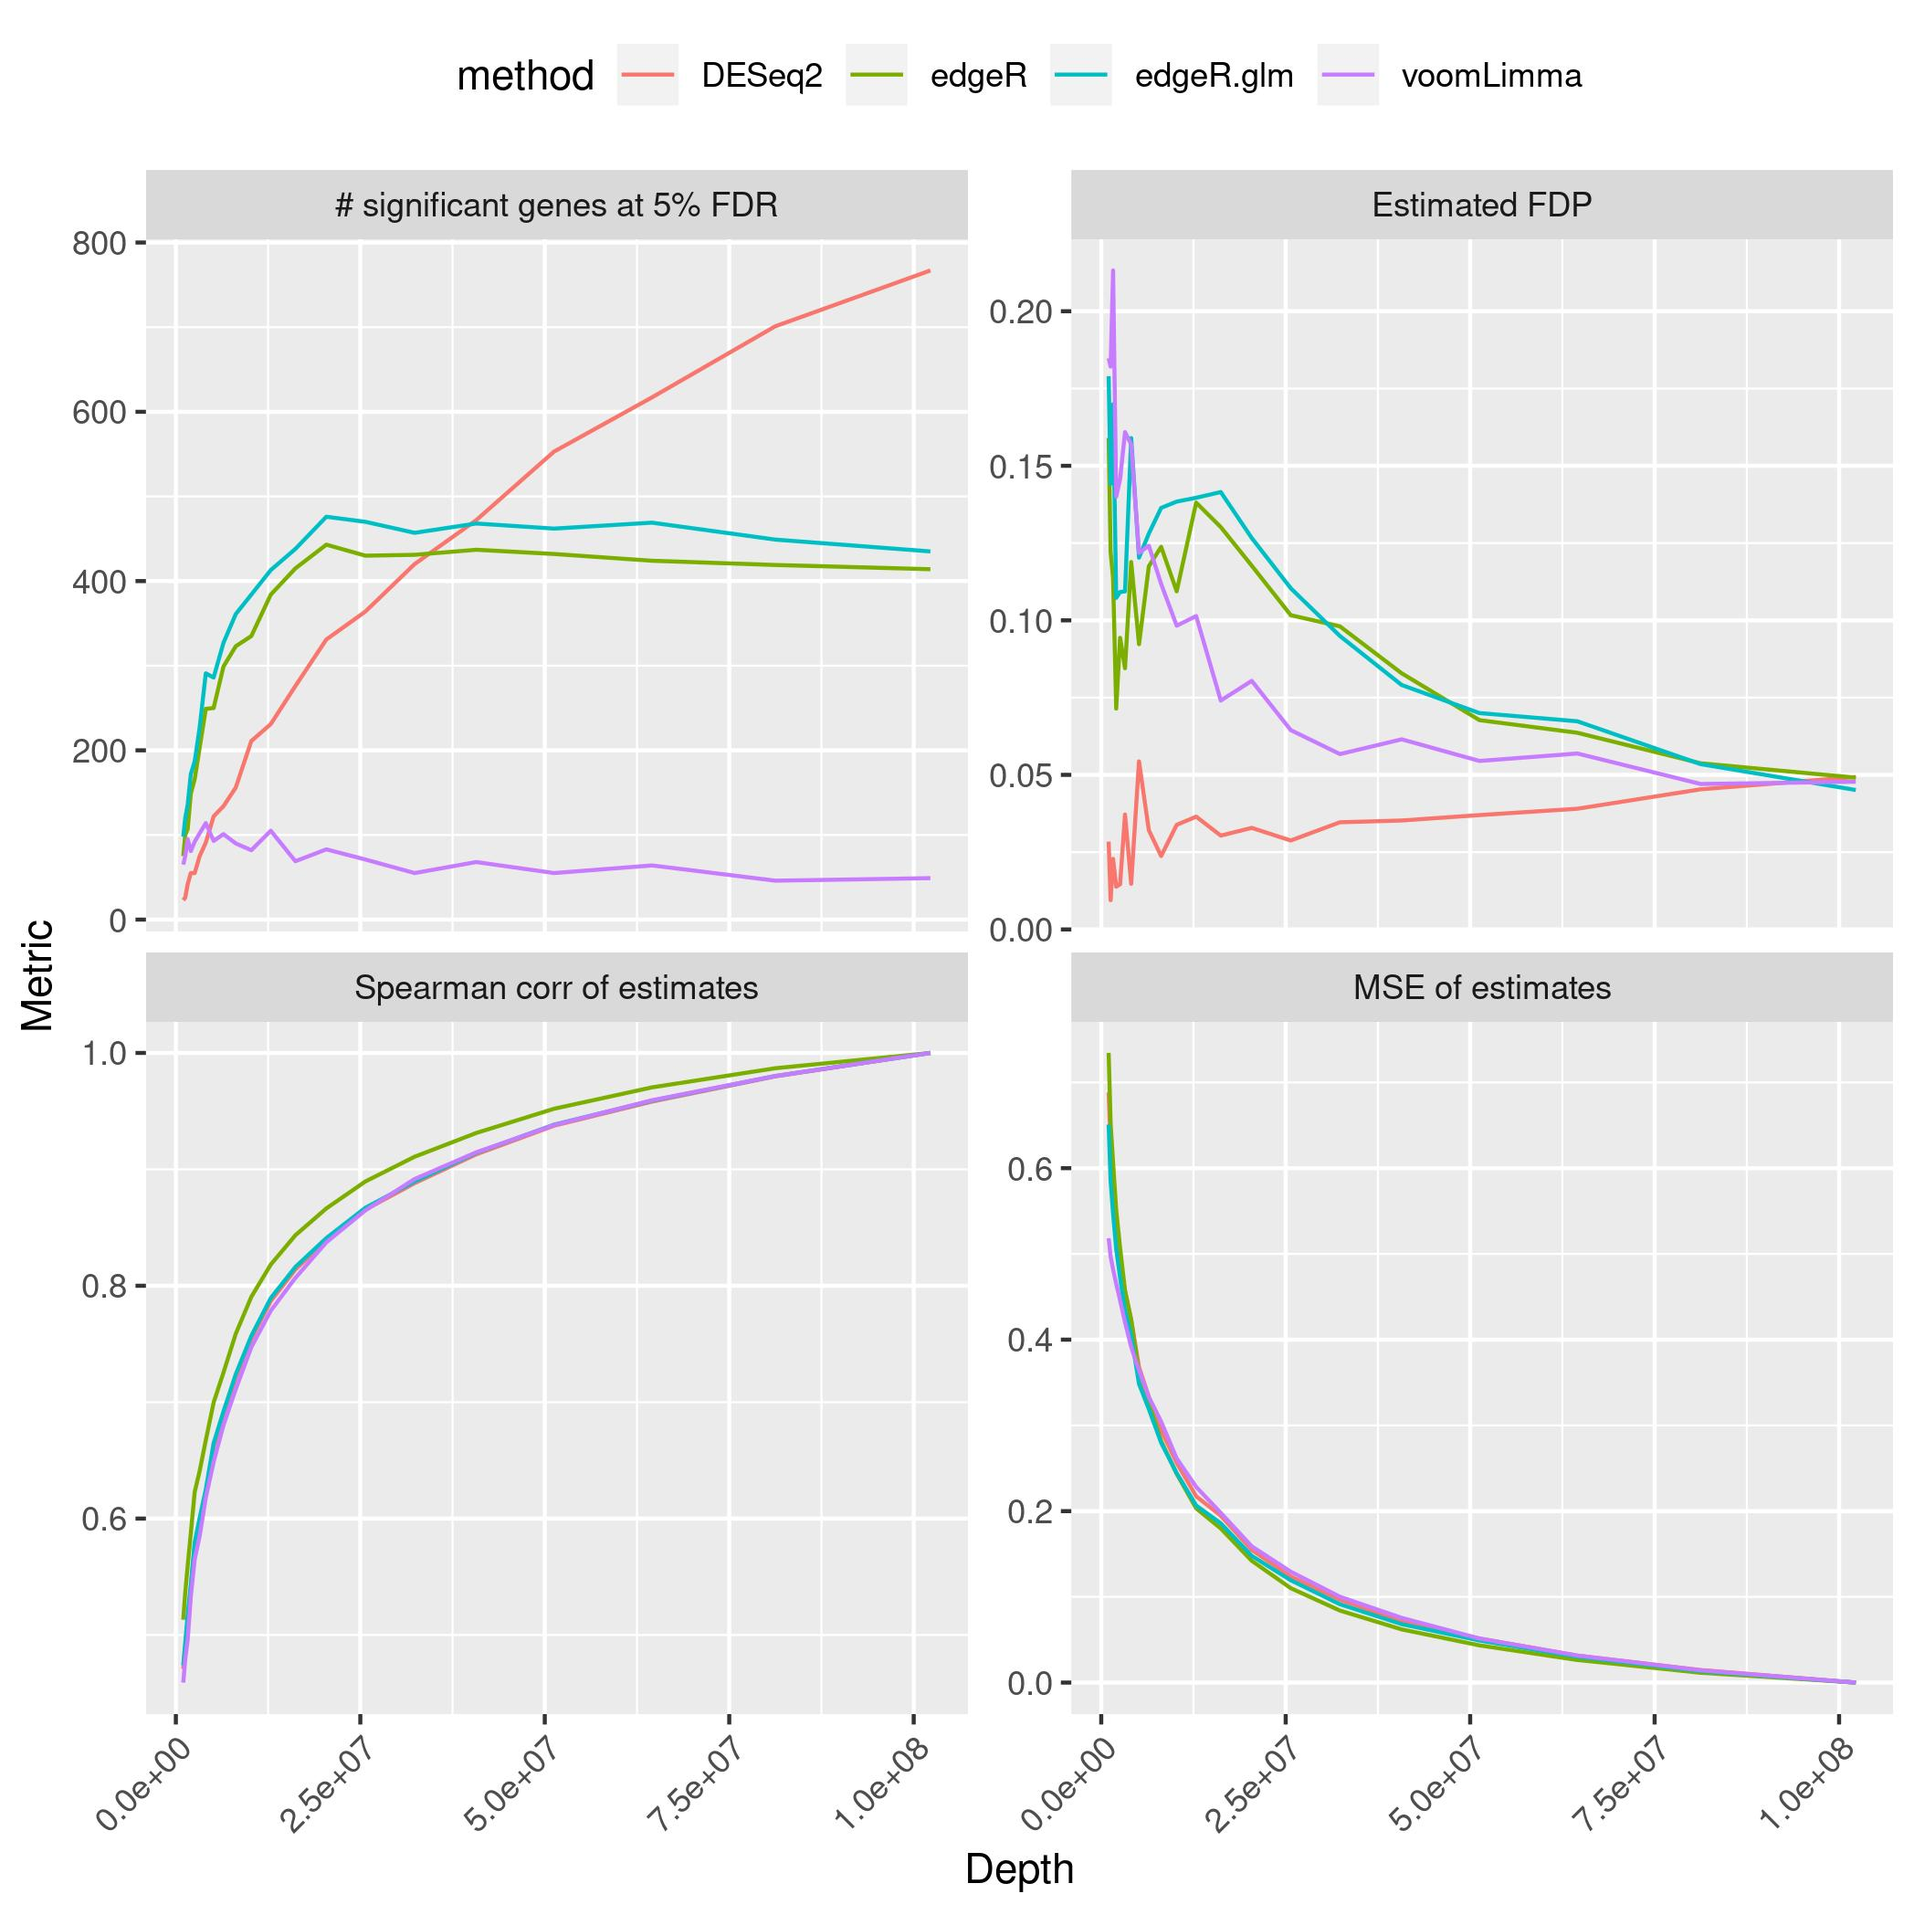
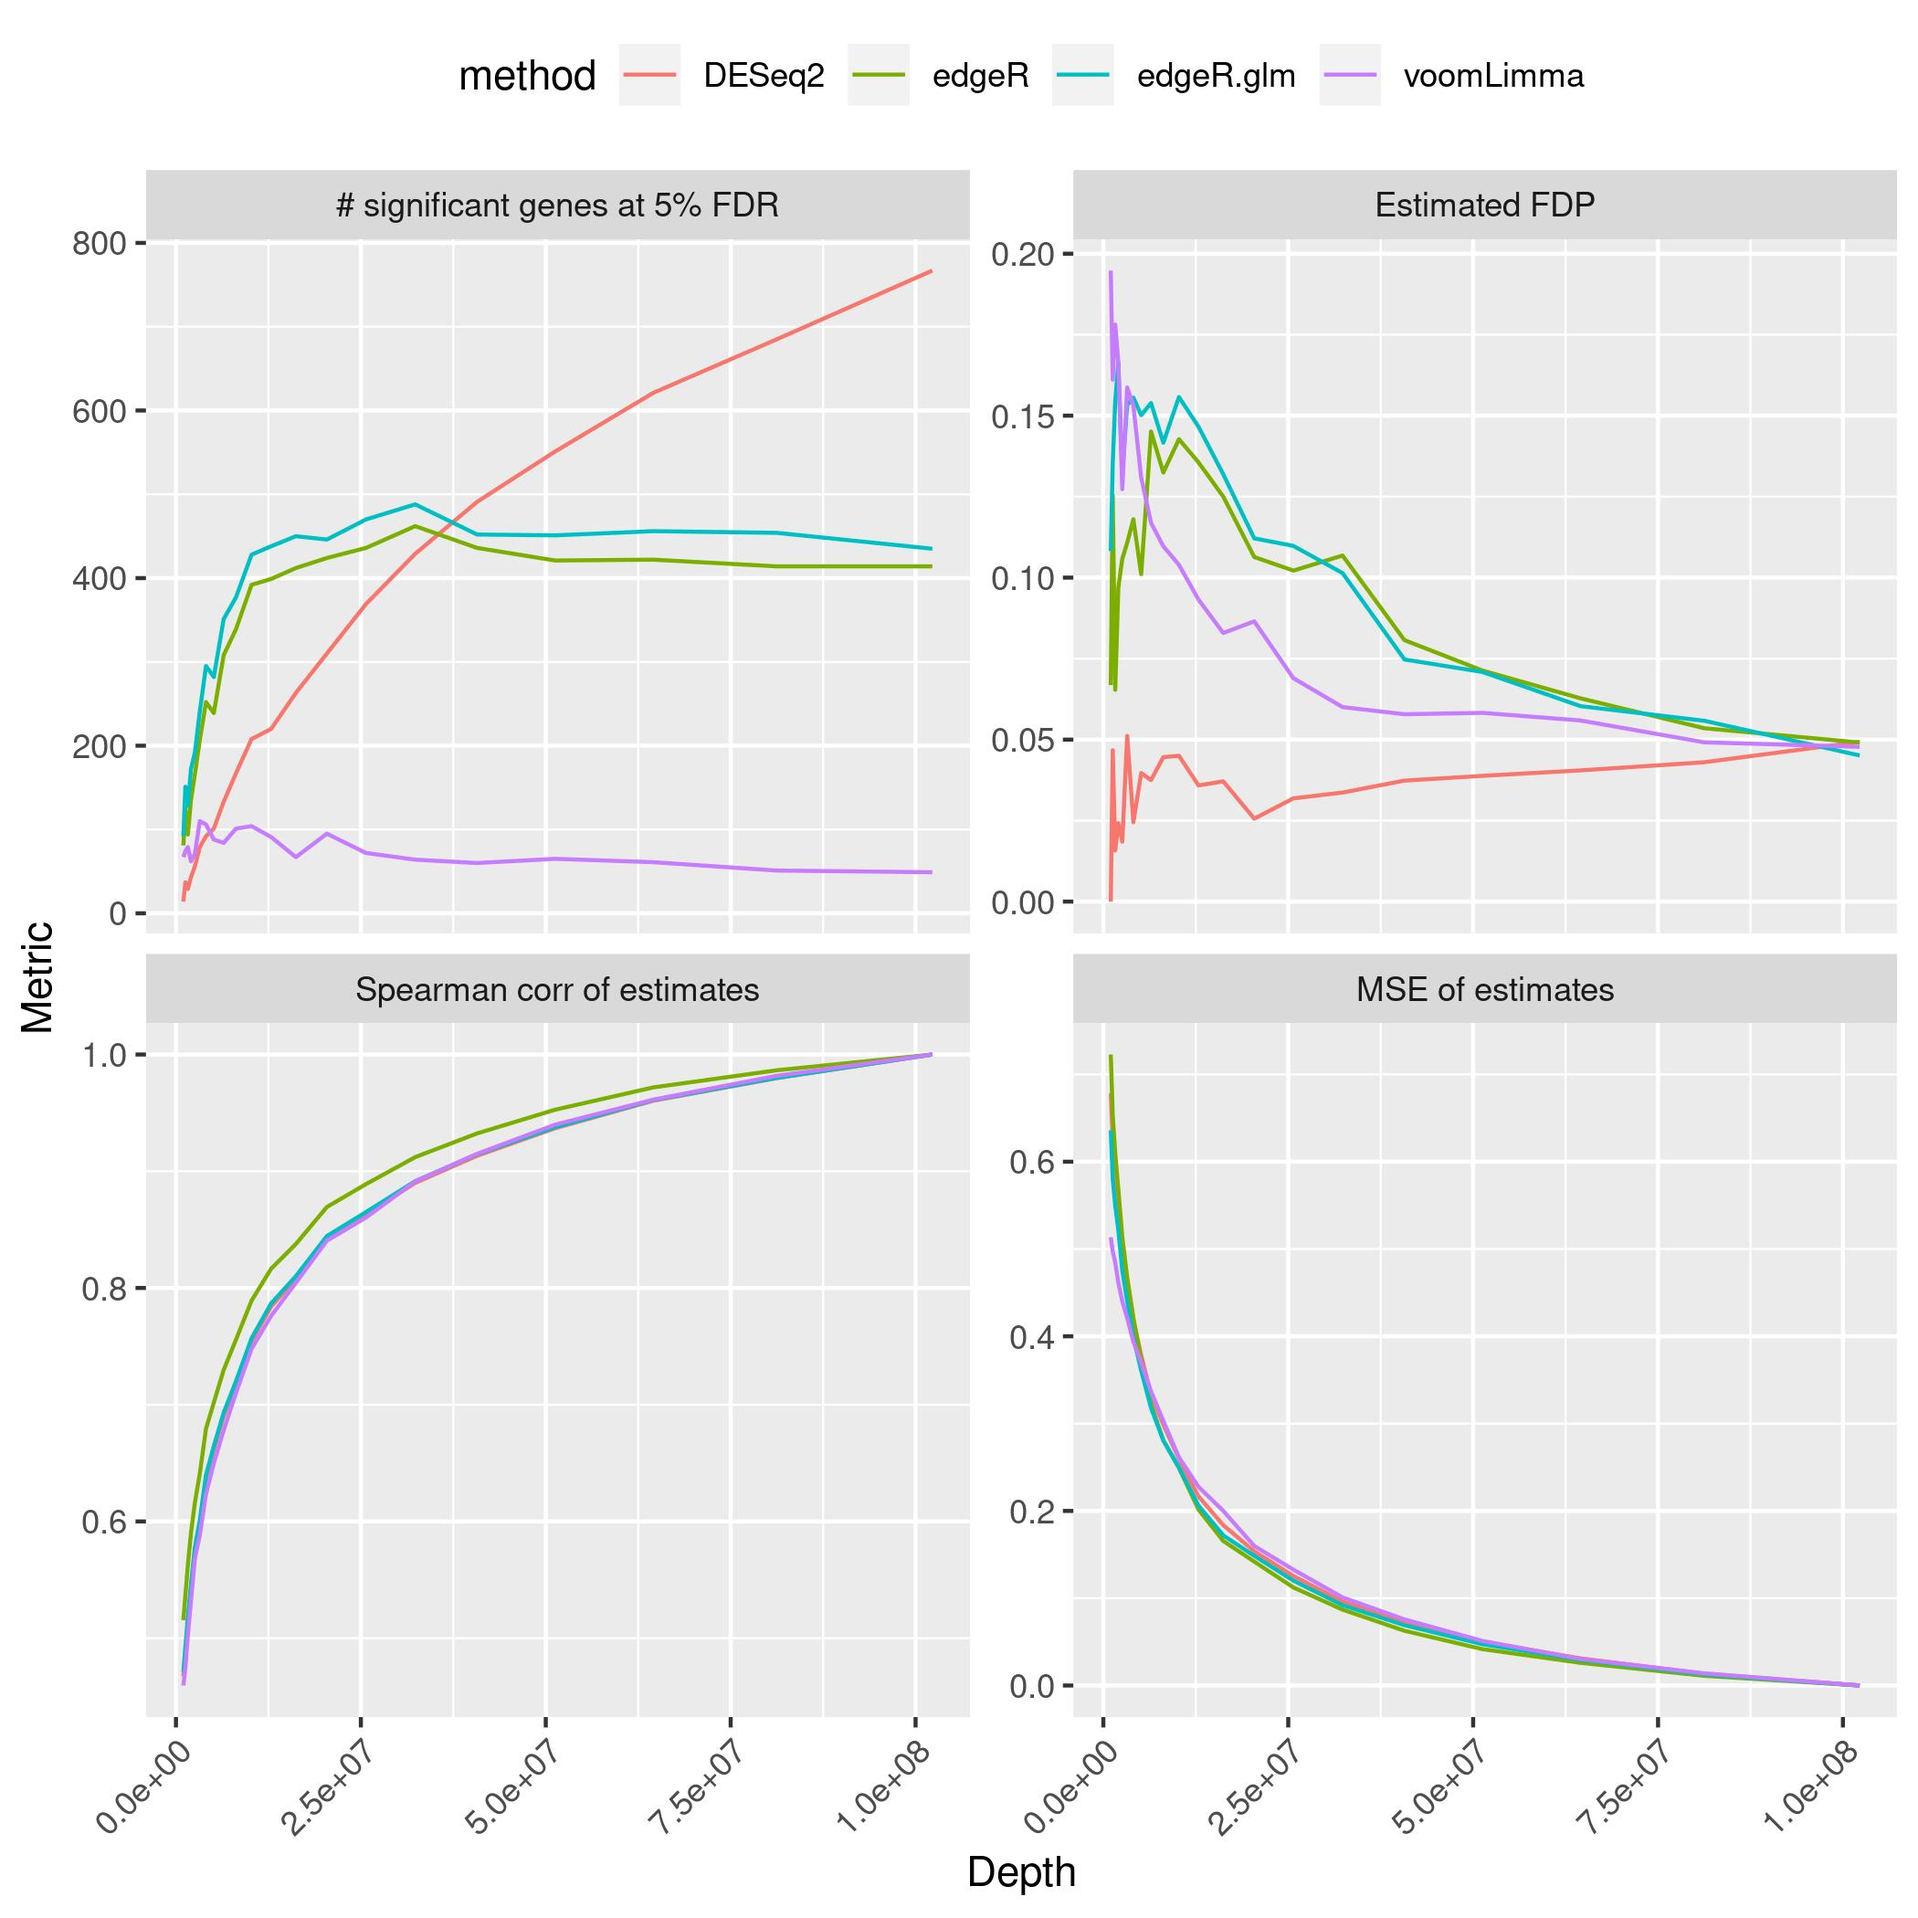
add subseq each comparison

diff --git a/ath_RNASeq_reads.md b/ath_RNASeq_reads.md
@@ -7,7 +7,8 @@
 - [1. Estimation](#1-Estimation)
     - [1.1 Exons](#11-exons)
     - [1.2 Transcripts](#12-transcripts)
-- [2. Expriments](#2-Estimation)
+- [2. subSeq](#2-subseq)
+- [3. References](#2-references)
 
 <!-- content end -->
 
@@ -57,7 +58,7 @@ Estimate coverage from exons, and we assuming that the read length is `150bp`
 12 50X                20.7   
 ```
 
-### 2.2 Transcripts
+### 1.2 Transcripts
 
 Retrieve transcripts from [Ensembl database](ftp://ftp.ensemblgenomes.org/pub/plants/release-43/gff3/arabidopsis_thaliana/Arabidopsis_thaliana.TAIR10.43.gff3.gz) (Araport11), which including 3,746 lncRNA and 43,256 mRNA sequences.
 
@@ -78,7 +79,27 @@ Retrieve transcripts from [Ensembl database](ftp://ftp.ensemblgenomes.org/pub/pl
 12 50X                38.1 
 ```
 
-### 2.3 Read data
+## 2. subSeq
+
+Randomly drop reads, then test the number of significantly changed genes, false discovery proportions (FDP), Spearman correlation and mean-squared error (MSE).
+
+* flg22 *vs.* Mock
+
+![Flg22_vs_Mock_subSeq](results/Flg22_vs_Mock_subSeq.jpg)
+
+* flg22+SynCom33 *vs.* Mock
+
+![](results/)
+
+* flg22+SynCom35 *vs.* Mock
+
+![](results/)
+
+## 3. References
+
+1. Robinson DG, Storey JD: **subSeq: determining appropriate sequencing depth through efficient read subsampling.** *Bioinformatics*. 2014;30(23):3424-6.
+
+
 
 
 
